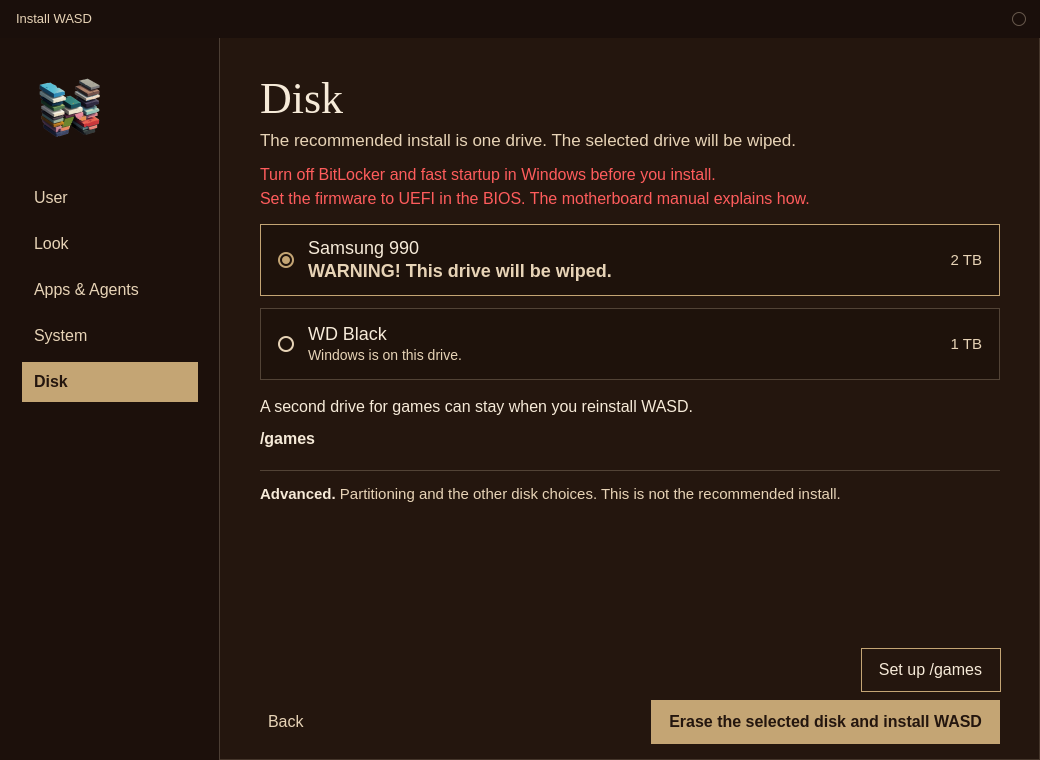
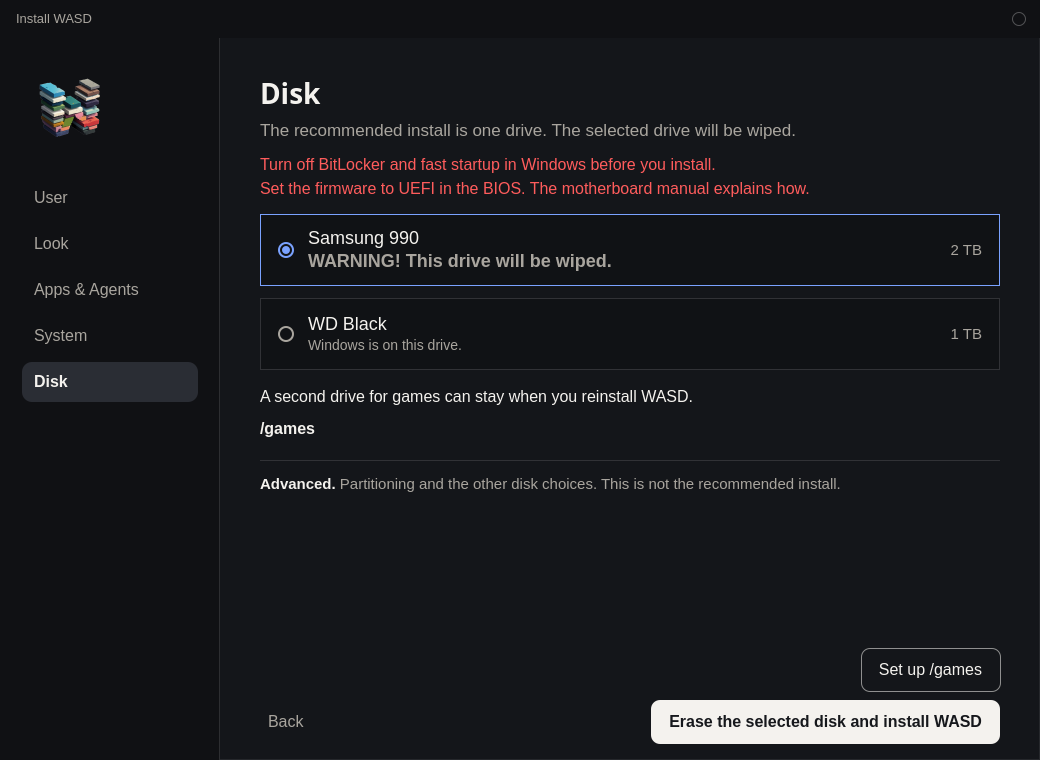
Restyle the site to the grey and blue scheme, and show the current app screens.

diff --git a/site/apps.html b/site/apps.html
@@ -5,9 +5,9 @@
   <meta name="viewport" content="width=device-width, initial-scale=1">
   <title>Install WASD and WASD Look — WASD</title>
   <meta name="description" content="How to use Install WASD, WASD Look, and a games drive mounted at /games.">
-  <meta name="theme-color" content="#c4a574">
+  <meta name="theme-color" content="#14161a">
   <link rel="icon" href="favicon.png" type="image/png">
-  <link rel="stylesheet" href="styles.css?v=20261026-7">
+  <link rel="stylesheet" href="styles.css?v=20261028-2">
 </head>
 <body class="guide shots">
   <div class="sheet">
@@ -47,10 +47,10 @@
 
     <h3 id="look">Look</h3>
     <figure>
-      <img src="images/install-look.png" alt="Install WASD on the Look step. Loading screen, Login screen, and Desktop are closed, with a small picture beside each one.">
-      <figcaption>Each row starts closed. Opening one shows its pictures and closes the other two.</figcaption>
+      <img src="images/install-look.png" alt="Install WASD on the Look step. Loading screen, Login/lock screen, and Desktop are open, each with a large picture.">
+      <figcaption>Loading screen, Login/lock screen, and Desktop stay open. The blue edge marks the picture in use.</figcaption>
     </figure>
-    <p>Loading screen is the picture behind the bar while the computer starts. Login screen is the sign-in picture. The lock screen uses that same picture. Desktop is the wallpaper, with a theme name beside it. The defaults are the stained-glass loading picture, the throne login picture, and the stained-glass desktop.</p>
+    <p>Loading screen is the picture behind the bar while the computer starts. Login/lock screen is the sign-in picture and the lock screen. Desktop is the wallpaper, with the theme above it. The defaults are the stained-glass loading picture, the throne login picture, and the stained-glass desktop.</p>
     <p>The choices are saved with the install. A new system already uses those three defaults. <span class="app">WASD Look</span> changes them after install. Adding a picture file to the matching folder adds a choice:</p>
     <p>Loading screens: <code>/usr/share/wasd/loading</code></p>
     <p>Login screens: <code>/usr/share/wasd/login</code></p>
@@ -130,18 +130,18 @@
     <p>The <span class="withicon"><img src="images/wasd-logo.png" alt="">desktop icon</span> is named <span class="app">Completing the install</span>. Closing the window leaves it. When the window finishes, the <span class="withicon"><img src="images/wasd-logo.png" alt="">icon</span> moves to the trash and is taken off the list of programs that start at login.</p>
     <p>The lines are "Setting the desktop.", then "Installing the agents." when any were checked, then "Installing what you checked.", and "Finishing up." A saved Ethernet address is applied when those lines start. If the adapter is not connected yet, the window says the address was saved. A Wi-Fi address is used when that network connects. Skipping Wi-Fi does not create a Wi-Fi connection.</p>
     <p>On "Installing what you checked." the selected apps are downloaded. Steam and Brave are already installed. If the computer is offline, the window stops and lets you choose a Wi-Fi network or set an address, a netmask, a gateway, and DNS. The passphrase is typed there and is not saved. You can skip that prompt. The window can still finish, and Discover can add an app later. Closing the window instead of skipping leaves the <span class="withicon"><img src="images/wasd-logo.png" alt="">desktop icon</span>.</p>
-    <p>If one app fails, the window names it. <span class="btn text">Retry</span> tries again. <span class="btn">Continue</span> leaves that one out and goes on. When OBS Studio is selected, its capture plugins are downloaded with it.</p>
-    <p>"Setting the desktop." applies the loading picture, the login picture, the theme, and the wallpaper from the Look step. The lock screen uses that same login picture. The session splash stays the WASD mark. <span class="btn text">Retry</span> tries the look again. That step does not offer <span class="btn">Continue</span>.</p>
-    <p>When agents were checked, "Installing the agents." installs them one at a time. Grok, and the other checked web apps, open in their own Brave window. Command-line agents that have an installer are downloaded here. <span class="btn text">Retry</span> tries again. <span class="btn">Continue</span> leaves that one out, and its menu entry stays. Sign-in uses your own account. <span class="app">WASD Look</span> can still change the pictures later.</p>
+    <p>If one app fails, the window names it. <span class="btn">Retry</span> tries again. <span class="btn">Continue</span> leaves that one out and goes on. When OBS Studio is selected, its capture plugins are downloaded with it.</p>
+    <p>"Setting the desktop." applies the loading picture, the login picture, the theme, and the wallpaper from the Look step. The lock screen uses that same login picture. The session splash stays the WASD mark. <span class="btn">Retry</span> tries the look again. That step does not offer <span class="btn">Continue</span>.</p>
+    <p>When agents were checked, "Installing the agents." installs them one at a time. Grok, and the other checked web apps, open in their own Brave window. Command-line agents that have an installer are downloaded here. <span class="btn">Retry</span> tries again. <span class="btn">Continue</span> leaves that one out, and its menu entry stays. Sign-in uses your own account. <span class="app">WASD Look</span> can still change the pictures later.</p>
     <p>To sign in automatically again after a password is set, open System Settings, then Security and Privacy, then Login Screen, and turn on Automatically log in.</p>
 
     <h2 id="wasd-look"><span class="app">WASD Look</span></h2>
     <figure>
-      <img src="images/wasd-look.png" alt="WASD Look. Loading screen, Login screen, Desktop wallpaper, and User picture are closed, each with a small picture.">
+      <img src="images/wasd-look.png" alt="WASD Look. Loading screen, Login/lock screen, Desktop wallpaper, and User picture, each shown as a large picture.">
       <figcaption><span class="app">WASD Look</span> matches the Look step, and it adds the user picture. <span class="btn">Apply</span> changes this computer.</figcaption>
     </figure>
     <p>Open <span class="app">WASD Look</span> from the menu after the system is installed. It uses the same folders. Loading screens are <code>/usr/share/wasd/loading</code>. Login screens are <code>/usr/share/wasd/login</code>. Wallpapers are <code>/usr/share/wallpapers/wasd</code>. The user picture is the same ten characters. Click the selected character again to clear it. <span class="btn">Apply</span> leaves the account picture alone unless you picked one or cleared it on that visit.</p>
-    <p>The wallpaper changes immediately. The user picture and the login screen change at the next login. The lock screen uses the same picture as the login screen, and it changes the next time the screen locks. The loading screen is rebuilt on that computer and shows on the next boot. That rebuild is not a new download of WASD. Theme choices stay in KDE's own settings.</p>
+    <p>The wallpaper changes immediately. The user picture and the login/lock screen change at the next login. The lock screen uses that same picture, and it changes the next time the screen locks. The loading screen is rebuilt on that computer and shows on the next boot. That rebuild is not a new download of WASD. Theme choices stay in KDE's own settings.</p>
     <p>The desktop note is on the <a href="/about">About</a> page. The stick is covered in <a href="/usb">How to make a bootable USB</a>.</p>
   </main>
   </div>

diff --git a/site/styles.css b/site/styles.css
@@ -1,8 +1,12 @@
 :root {
   color-scheme: dark;
-  --ink: #f6ead8;
-  --muted: #e7d3b6;
-  --line: rgba(246, 226, 196, 0.28);
+  --ink: #f4f2ee;
+  --muted: #a9a59e;
+  --line: rgba(255, 255, 255, 0.14);
+  --card: #22252b;
+  --accent: #7aa2ff;
+  --button: #f4f2ee;
+  --button-ink: #16181c;
 }
 
 * { box-sizing: border-box; }
@@ -15,7 +19,7 @@ body {
   display: flex;
   flex-direction: column;
   color: var(--ink);
-  background: #24160e;
+  background: #14161a;
   font-family: "Segoe UI", "Helvetica Neue", sans-serif;
   font-size: 1.05rem;
   line-height: 1.45;
@@ -32,7 +36,7 @@ body:not(.guide) {
   height: min(64vh, 56.25vw, max(6rem, calc(100dvh - 28rem)));
   min-height: 0;
   overflow: hidden;
-  background: #c4a574;
+  background: #14161a;
 }
 
 .wood {
@@ -53,15 +57,14 @@ main {
 .eyebrow {
   margin: 0;
   letter-spacing: 0.28em;
-  font-family: Palatino, "Palatino Linotype", "Iowan Old Style", Georgia, serif;
   font-size: 0.95rem;
 }
 
 h1 {
   margin: 0.35rem 0 0;
-  font-family: Palatino, "Palatino Linotype", "Iowan Old Style", Georgia, serif;
   font-size: 2.15rem;
-  font-weight: 500;
+  font-weight: 650;
+  letter-spacing: -0.03em;
   line-height: 1.1;
 }
 
@@ -99,10 +102,10 @@ a {
   text-underline-offset: 0.18em;
 }
 
-a:hover { color: #fff8ee; }
+a:hover { color: #ffffff; }
 
 a:focus-visible {
-  outline: 2px solid #f3e0c4;
+  outline: 2px solid var(--accent);
   outline-offset: 3px;
 }
 
@@ -114,8 +117,8 @@ body.guide main {
 
 body.guide h2,
 body.guide h3 {
-  font-family: Palatino, "Palatino Linotype", "Iowan Old Style", Georgia, serif;
-  font-weight: 500;
+  font-weight: 650;
+  letter-spacing: -0.02em;
 }
 
 body.guide h2 {
@@ -133,7 +136,6 @@ body.guide p { margin: 0.55rem 0 0; }
 body.guide .back {
   margin: 0 0 1.2rem;
   letter-spacing: 0.28em;
-  font-family: Palatino, "Palatino Linotype", "Iowan Old Style", Georgia, serif;
 }
 
 body.guide .checks {
@@ -155,25 +157,24 @@ body.guide code {
   font-size: 0.92em;
   letter-spacing: 0;
   white-space: nowrap;
-  color: #d8ffcf;
-  background: #100a07;
-  border: 1px solid rgba(184, 230, 170, 0.4);
-  border-radius: 0.2rem;
+  color: var(--ink);
+  background: var(--card);
+  border: 1px solid var(--line);
+  border-radius: 0.45rem;
   padding: 0.04em 0.38em;
 }
 
 .app {
-  font-family: Palatino, "Palatino Linotype", "Iowan Old Style", Georgia, serif;
-  font-style: italic;
-  font-weight: 600;
-  letter-spacing: 0.01em;
+  font-style: normal;
+  font-weight: 650;
+  letter-spacing: 0;
   white-space: nowrap;
-  color: #e4c48a;
+  color: var(--accent);
 }
 
 a:hover .app,
 a:focus-visible .app {
-  color: #fff8ee;
+  color: #ffffff;
 }
 
 .btn {
@@ -189,32 +190,32 @@ a:focus-visible .app {
   white-space: nowrap;
   text-align: center;
   vertical-align: middle;
-  color: #24160e;
-  background: #c4a574;
-  border: 1px solid #c4a574;
-  border-radius: 0;
+  color: var(--button-ink);
+  background: var(--button);
+  border: 1px solid var(--button);
+  border-radius: 9px;
   padding: 0.42em 0.9em;
 }
 
 .btn.alt {
   font-weight: 600;
-  color: #f6ead8;
+  color: var(--ink);
   background: transparent;
-  border-color: #c4a574;
+  border-color: rgba(244, 242, 238, 0.55);
 }
 
 .btn.line {
   font-weight: 500;
   font-size: 0.82em;
-  color: #f6ead8;
+  color: var(--ink);
   background: transparent;
-  border-color: rgba(246, 226, 196, 0.45);
+  border-color: rgba(244, 242, 238, 0.45);
   padding: 0.28em 0.7em;
 }
 
 .btn.text {
   font-weight: 500;
-  color: #e7d3b6;
+  color: var(--muted);
   background: transparent;
   border-color: transparent;
   padding: 0.12em 0.28em;
@@ -237,8 +238,9 @@ body.guide pre {
   padding: 0.7rem 0.85rem;
   overflow-x: auto;
   color: var(--ink);
-  background: #1a100b;
+  background: var(--card);
   border: 1px solid var(--line);
+  border-radius: 10px;
 }
 
 body.guide.shots .sheet {
@@ -267,7 +269,6 @@ body.guide.shots main {
 .toc p {
   margin: 0;
   letter-spacing: 0.16em;
-  font-family: Palatino, "Palatino Linotype", "Iowan Old Style", Georgia, serif;
   font-size: 0.82rem;
 }
 
@@ -280,13 +281,14 @@ body.guide.shots main {
 
 .toc a.sub { margin-left: 0.95rem; }
 
-.toc a:hover { color: #fff8ee; }
+.toc a:hover { color: #ffffff; }
 
 .notice {
   margin: 1.15rem 0 0;
   padding: 0.9rem 1rem;
-  background: #1c100b;
-  border: 1px solid #c4a574;
+  background: var(--card);
+  border: 1px solid var(--line);
+  border-radius: 14px;
 }
 
 .notice p { margin: 0; }
@@ -294,7 +296,7 @@ body.guide.shots main {
 body.guide.shots h2 {
   margin: 1.45rem 0 0;
   padding-top: 1.45rem;
-  border-top: 1px solid #c4a574;
+  border-top: 1px solid var(--line);
   font-size: 1.9rem;
 }
 
@@ -325,8 +327,9 @@ body.guide figure > img {
   display: block;
   width: 100%;
   height: auto;
-  background: #1a100b;
+  background: var(--card);
   border: 1px solid var(--line);
+  border-radius: 10px;
 }
 
 body.guide figcaption {

diff --git a/site/index.html b/site/index.html
@@ -5,9 +5,9 @@
   <meta name="viewport" content="width=device-width, initial-scale=1">
   <title>WASD</title>
   <meta name="description" content="Linux Gaming for the PC.">
-  <meta name="theme-color" content="#c4a574">
+  <meta name="theme-color" content="#14161a">
   <link rel="icon" href="favicon.png" type="image/png">
-  <link rel="stylesheet" href="styles.css?v=20261026-7">
+  <link rel="stylesheet" href="styles.css?v=20261028-2">
   <meta property="og:title" content="WASD">
   <meta property="og:description" content="Linux Gaming for the PC.">
   <meta property="og:type" content="website">

diff --git a/site/usb.html b/site/usb.html
@@ -5,9 +5,9 @@
   <meta name="viewport" content="width=device-width, initial-scale=1">
   <title>How to make a bootable USB — WASD</title>
   <meta name="description" content="Download the WASD ISO, check it, and write it to a USB stick.">
-  <meta name="theme-color" content="#c4a574">
+  <meta name="theme-color" content="#14161a">
   <link rel="icon" href="favicon.png" type="image/png">
-  <link rel="stylesheet" href="styles.css?v=20261026-7">
+  <link rel="stylesheet" href="styles.css?v=20261028-2">
 </head>
 <body class="guide">
   <main>

diff --git a/site/about.html b/site/about.html
@@ -5,9 +5,9 @@
   <meta name="viewport" content="width=device-width, initial-scale=1">
   <title>About — WASD</title>
   <meta name="description" content="WASD is a gaming system based on Bazzite, made for a PC.">
-  <meta name="theme-color" content="#c4a574">
+  <meta name="theme-color" content="#14161a">
   <link rel="icon" href="favicon.png" type="image/png">
-  <link rel="stylesheet" href="styles.css?v=20261026-7">
+  <link rel="stylesheet" href="styles.css?v=20261028-2">
 </head>
 <body class="guide">
   <main>
